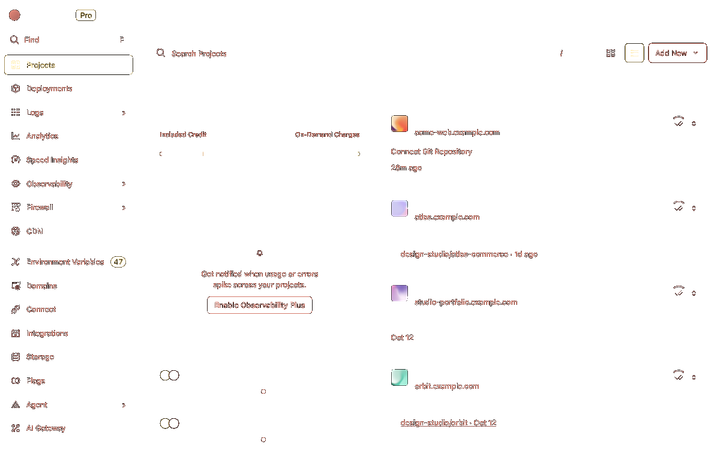
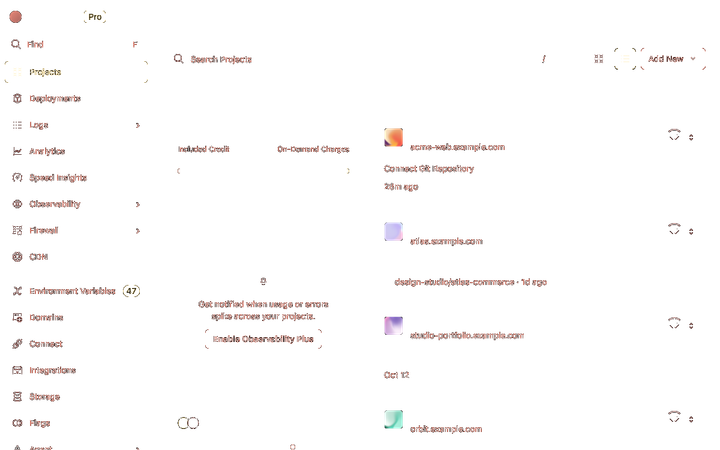
Replace infrastructure team dropdown with the shared site selector

diff --git a/src/components/dashboards/infrastructure/navigation.css b/src/components/dashboards/infrastructure/navigation.css
@@ -1,10 +1,8 @@
 .vc-sidebar{position:fixed;inset:0 auto 0 0;width:255px;max-width:calc(100vw - 32px);display:flex;flex-direction:column;background:var(--p-background);border-right:1px solid var(--vc-line);z-index:30;font-size:14px;line-height:24px;color:var(--p-text)}
-.vc-sidebar-header{height:92px;flex-shrink:0;padding:0 8px}.vc-team-menu>div{width:100%}.vc-team-menu [data-menu-trigger] button{display:flex!important;align-items:center;gap:8px!important;width:100%;height:56px!important;padding:0 8px!important;justify-content:flex-start!important}.vc-team-menu [data-menu-trigger] button>.vc-icon:last-child{margin-left:auto}.vc-team-avatar{width:20px;height:20px;background:linear-gradient(135deg,var(--p-primary),var(--p-accent));border-radius:50%;flex-shrink:0}.vc-plan{font-size:14px;line-height:20px;padding:0 7px;background:var(--p-secondary);color:var(--p-on-secondary,var(--p-text));border-radius:5px}.vc-find{height:36px!important;width:100%;border:1px solid var(--vc-line)!important;border-radius:6px!important;justify-content:flex-start!important;gap:10px!important;padding:0 10px!important;background:var(--vc-surface)!important;color:var(--p-accent)!important}.vc-find kbd{margin-left:auto;border:1px solid var(--vc-line);border-radius:4px;font:inherit;font-size:14px;line-height:20px;min-width:20px;text-align:center}
+.vc-sidebar-header{height:92px;flex-shrink:0;padding:0 8px}.vc-site-switcher-slot{display:flex;align-items:center;gap:8px;width:100%;height:56px;padding:0 36px 0 8px}.vc-team-avatar{width:20px;height:20px;background:linear-gradient(135deg,var(--p-primary),var(--p-accent));border-radius:50%;flex-shrink:0}.vc-plan{font-size:14px;line-height:20px;padding:0 7px;background:var(--p-secondary);color:var(--p-on-secondary,var(--p-text));border-radius:5px}.vc-find{height:36px!important;width:100%;border:1px solid var(--vc-line)!important;border-radius:6px!important;justify-content:flex-start!important;gap:10px!important;padding:0 10px!important;background:var(--vc-surface)!important;color:var(--p-accent)!important}.vc-find kbd{margin-left:auto;border:1px solid var(--vc-line);border-radius:4px;font:inherit;font-size:14px;line-height:20px;min-width:20px;text-align:center}
 .vc-sidebar-links{padding:10px 8px;overflow-y:auto;min-height:0;flex:1;scrollbar-width:thin}.vc-nav-group{display:flex;flex-direction:column;gap:8px}.vc-nav-group+.vc-nav-group{border-top:1px solid var(--vc-line);margin-top:12px;padding-top:8px}.vc-nav-link{height:36px!important;min-height:36px!important;width:100%;padding:0 12px!important;gap:12px!important;justify-content:flex-start!important;border-radius:6px!important;color:var(--p-accent)!important;transition:background-color 200ms ease!important}.vc-nav-link:hover{background:var(--vc-hover)!important}.vc-nav-link.is-active{background:var(--p-secondary)!important;color:var(--p-text)!important}.vc-nav-chevron{margin-left:auto;font-size:18px}.vc-env-count{margin-left:auto;border-radius:12px;background:var(--p-secondary);color:var(--p-on-secondary,var(--p-text));font-size:14px;line-height:20px;padding:0 6px}.vc-sidebar-close,.vc-sidebar-backdrop,.vc-mobile-tools{display:none}
 .vc-topbar{height:56px;display:flex;align-items:center;justify-content:space-between;border-bottom:1px solid var(--vc-line);padding:0 24px;position:sticky;top:0;z-index:40;font-size:14px;background:var(--p-background)}.vc-topbar-left{display:flex;align-items:center;gap:8px}.vc-topbar-left button{gap:8px!important;padding:0 4px!important}.vc-topbar-overview{position:absolute;left:50%;transform:translateX(-50%)}.vc-topbar-toggle,.vc-topbar-team{display:none}.vc-agent-button{gap:8px!important;padding:0 4px!important}
 @media(max-width:1099px){.vc-sidebar{display:none}.vc-sidebar.is-open{display:flex;z-index:61}.vc-sidebar-backdrop{display:block;position:fixed;inset:0;background:color-mix(in srgb,var(--p-text) 53%,transparent);z-index:60;border:0}.vc-sidebar-close{display:block;position:absolute;right:-36px;top:10px}.vc-sidebar-close button{background:var(--vc-surface)!important;border:1px solid var(--vc-line)!important}.vc-topbar-toggle{display:block}.vc-topbar{padding:0 16px}.vc-mobile-tools{display:flex;align-items:center;position:fixed;bottom:16px;left:50%;transform:translateX(-50%);z-index:35;background:var(--p-secondary);border:1px solid var(--vc-line);box-shadow:0 4px 18px #0004;border-radius:14px;padding:4px}.vc-mobile-tools>button{height:36px!important;gap:8px!important;padding:0 12px!important}.vc-mobile-tools>button+button{border-left:1px solid var(--vc-line)!important;border-radius:0!important}}
 @media(max-width:600px){.vc-topbar{justify-content:space-between}.vc-topbar-left .vc-menu,.vc-topbar-overview{display:none}.vc-topbar-team{display:flex;align-items:center;gap:8px;position:absolute;left:50%;transform:translateX(-50%);white-space:nowrap}.vc-agent-button>span{display:none}.vc-agent-button{width:36px!important;height:36px!important;justify-content:center!important}}
 
 .vc-nav-chevron{font-size:16px}.vc-mobile-tools{gap:8px}
-
-.vc-team-menu{width:100%}.vc-team-menu [role=menu]{left:0!important;right:auto!important}

diff --git a/src/components/Studio.tsx b/src/components/Studio.tsx
@@ -86,7 +86,7 @@ const siteLogoSelectors: Record<string, string> = {
   orvian: 'img[alt="Orvian"]',
   nuvexa: 'nav img[alt="Nuvexa"]',
   workspace: '.side-title, .mobile-toggle',
-  infrastructure: '[aria-label*="Switch team"], .vc-topbar-team',
+  infrastructure: '[data-site-switcher-slot], .vc-topbar-team',
 };
 // Generated wordmark images have transparent space after the visible letters.
 const wordmarkWidths: Record<string, number> = { avenlo: 0.66, orvian: 0.63, nuvexa: 0.72 };
@@ -325,12 +325,15 @@ export default function Studio({ children, preview = "/preview/index.html", defa
     const frameBox = iframe.getBoundingClientRect();
     const box = logo.getBoundingClientRect();
     const scale = frameBox.width / iframe.clientWidth;
+    const slot = logo.hasAttribute('data-site-switcher-slot');
     const next = {
-      left: frameBox.left + (box.left + box.width * (wordmarkWidths[previewId ?? ""] ?? 1) + 4) * scale,
-      top: frameBox.top + (box.top + box.height / 2) * scale - 14,
+      width: slot ? box.width * scale : undefined,
+      height: slot ? box.height * scale : undefined,
+      left: slot ? frameBox.left + box.left * scale : frameBox.left + (box.left + box.width * (wordmarkWidths[previewId ?? ""] ?? 1) + 4) * scale,
+      top: slot ? frameBox.top + box.top * scale : frameBox.top + (box.top + box.height / 2) * scale - 14,
       color: previewId === "nuvexa" ? palette.text : document.defaultView?.getComputedStyle(logo).color,
     };
-    setSiteSwitcherPosition(previous => previous?.left === next.left && previous?.top === next.top && previous?.color === next.color ? previous : next);
+    setSiteSwitcherPosition(previous => previous?.left === next.left && previous?.top === next.top && previous?.color === next.color && previous?.width === next.width && previous?.height === next.height ? previous : next);
   }, [previewId, palette.text]);
   useEffect(() => {
     updateSiteSwitcherPosition();
@@ -339,10 +342,12 @@ export default function Studio({ children, preview = "/preview/index.html", defa
     const schedule = () => { if (!frameId) frameId = requestAnimationFrame(() => { frameId = 0; updateSiteSwitcherPosition(); }); };
     const observer = !siteSwitcherPosition && document?.documentElement ? new MutationObserver(schedule) : null;
     if (observer && document?.documentElement) observer.observe(document.documentElement, { childList: true, subtree: true, attributes: true, attributeFilter: ["class", "style"] });
+    const resizeObserver = new ResizeObserver(schedule);
+    if (document && previewId) document.querySelectorAll(siteLogoSelectors[previewId]).forEach(logo => resizeObserver.observe(logo));
     document?.addEventListener("scroll", schedule, true);
     window.addEventListener("resize", schedule);
-    return () => { observer?.disconnect(); document?.removeEventListener("scroll", schedule, true); window.removeEventListener("resize", schedule); cancelAnimationFrame(frameId); };
-  }, [updateSiteSwitcherPosition, preview, readyPreview, frameLoaded, siteSwitcherPosition]);
+    return () => { observer?.disconnect(); resizeObserver.disconnect(); document?.removeEventListener("scroll", schedule, true); window.removeEventListener("resize", schedule); cancelAnimationFrame(frameId); };
+  }, [updateSiteSwitcherPosition, previewId, preview, readyPreview, frameLoaded, siteSwitcherPosition]);
   useEffect(() => {
     const onReady = (event: MessageEvent) => {
       if (embedded && event.source === window.parent && event.origin === window.location.origin && event.data?.type === "hexmix-comparison-colors" && isPalette(event.data.palette)) {
@@ -622,7 +627,7 @@ export default function Studio({ children, preview = "/preview/index.html", defa
         sandbox="allow-scripts allow-same-origin allow-popups allow-forms allow-downloads"
         onLoad={() => { updateFrame(); updateSiteSwitcherPosition(); setFrameLoaded(count => count + 1); }}
       />}
-      {!children && !embedded && <div className="preview-site-switcher" data-integrated={Boolean(siteSwitcherPosition) || undefined} style={siteSwitcherPosition && (!capture || readyPreview === preview) ? siteSwitcherPosition : previewId && !showCapture ? { visibility: "hidden" } : { left: 8, top: 8 }}>
+      {!children && !embedded && <div className="preview-site-switcher" data-slot={Boolean(siteSwitcherPosition?.width) || undefined} data-integrated={Boolean(siteSwitcherPosition) || undefined} style={siteSwitcherPosition && (!capture || readyPreview === preview) ? siteSwitcherPosition : previewId && !showCapture ? { visibility: "hidden" } : { left: 8, top: 8 }}>
         <SiteSwitcher palette={palette} heading={heading} body={body} elementRoles={elementRoles} onOpen={()=>{setPanel(null);setActiveColor(null);setPreviewPalette(null);setSelection(null);setInspecting(false);}}/>
       </div>}
       {selection && frame.current && (

diff --git a/src/components/dashboards/infrastructure/Navigation.tsx b/src/components/dashboards/infrastructure/Navigation.tsx
@@ -36,9 +36,9 @@ export function Navigation({team,teamNames={},activePage='projects',open,onClose
   {open&&<div className="vc-sidebar-backdrop" aria-hidden="true" onClick={onClose}/>}
   <aside ref={sidebar} className={`vc-sidebar${open?' is-open':''}`} aria-label="Workspace navigation">
    <header className="vc-sidebar-header">
-    <Menu label={`${teamName} Pro · Switch team`} className="vc-team-menu" items={['Design studio','Personal'].map(label=>({label:teamNames[label]??label,onClick:()=>onAction(label)}))}>
-     <span className="vc-avatar vc-team-avatar" aria-hidden="true"/><span>{teamName}</span>{" "}<span className="vc-plan">Pro</span><Icon name="chevron"/>
-    </Menu>
+    <div className="vc-site-switcher-slot" data-site-switcher-slot>
+     <span className="vc-avatar vc-team-avatar" aria-hidden="true"/><span>{teamName}</span>{" "}<span className="vc-plan">Pro</span>
+    </div>
     <Action className="vc-find" onClick={onFind}><Icon name="FindF"/><span>Find</span><kbd>F</kbd></Action>
    </header>
    <nav className="vc-sidebar-links" aria-label="Team">

diff --git a/src/app/globals.css b/src/app/globals.css
@@ -91,6 +91,7 @@ a:focus-visible {
 .dashboard-frame { --preview-scale: 0.9; transform: scale(var(--preview-scale)); transform-origin: top left; }
 .preview-site-switcher { position: absolute; z-index: 30; }
 .preview-site-switcher[data-integrated] .site-switcher-trigger { width: 28px; min-height: 28px; padding: 0; justify-content: center; gap: 0; border: 0; border-radius: 6px; background: transparent; color: inherit; box-shadow: none; }
+.preview-site-switcher[data-slot] .site-switcher-trigger { width: 100%; height: 100%; padding: 0 8px; justify-content: flex-end; }
 .preview-site-switcher[data-integrated] .site-switcher-trigger:hover { background: color-mix(in srgb, currentColor 12%, transparent); }
 .preview-site-switcher[data-integrated] .site-switcher-name { display: none; }
 .preview-site-switcher .control-tooltip { top: calc(100% + 6px); bottom: auto; }
